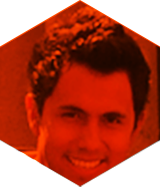
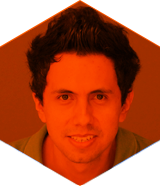
inserted mentor profiles and pics, removed some links from footer, inserted real press links

diff --git a/app/assets/stylesheets/pages.scss b/app/assets/stylesheets/pages.scss
@@ -575,6 +575,9 @@
       text-decoration: none;
     }
   }
+  .nav > li > a:hover, .nav > li > a:focus {
+    background: transparent;
+  }
   .navbar {
     font-size: 14px;
     background: #fff;
@@ -663,7 +666,7 @@
       margin-bottom: 0;
       li {
         display: inline-block;
-        margin-left: 20px;
+        margin-left: 50px;
         &:first-child {
           margin-left: 0;
         }
@@ -858,6 +861,9 @@
       margin-left: auto;
       margin-right: auto;
     }
+    img {
+      width: 85px;
+    }
   }
   .deco-quote {
     margin: 30px 0;
@@ -906,6 +912,7 @@
       text-align: left;
       width: 70%;
       margin: 0 auto;
+      line-height: 1.5em;
     }
     .mentor {
       text-align: center;
@@ -972,6 +979,16 @@
       left: 15%;
       top: 55px;
       z-index: 0;
+    }
+    .btn-main {
+      -webkit-transition: opacity 0.6s ease;
+      -moz-transition: opacity 0.6s ease;
+      -o-transition: opacity 0.6s ease;
+      transition: opacity 0.6s ease;
+      &:hover {
+        opacity: 0.7;
+        text-decoration: none;
+      }
     }
   }
 
@@ -1122,6 +1139,7 @@
     }
     .site-links {
       font-size: 18px;
+      text-align: center;
       @media (max-width: $screen-lg-min) {
         text-align: center;
       }
@@ -1130,6 +1148,19 @@
       }
       li {
         margin-bottom: 15px;
+        margin-right: 15px;
+        display: inline-block;
+        @media (max-width: 1310px) {
+          display: block;
+          margin-right: 0;
+        }
+        @media (max-width: $screen-lg-min) {
+          display: inline-block;
+          margin-right: 15px;
+        }
+        &:last-child {
+          margin-right: 0;
+        }
       }
     }
     .copyright-container {
